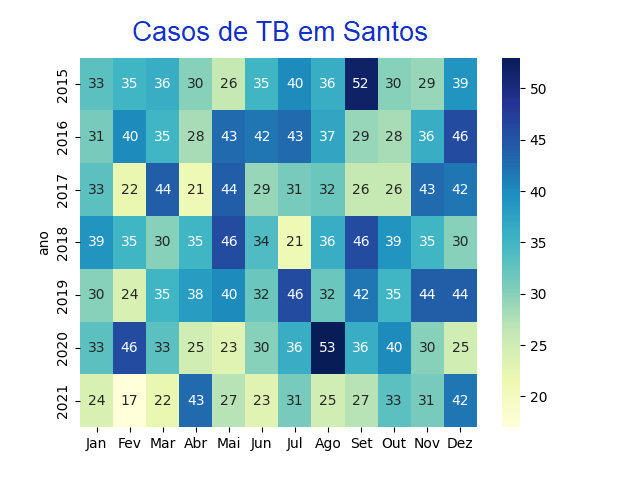
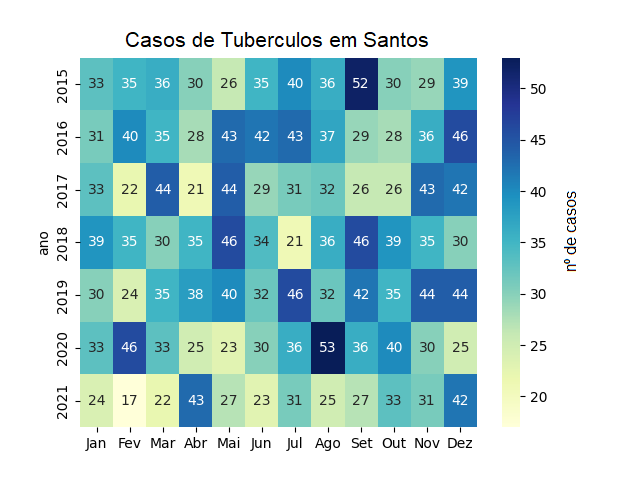
primeira entrega

Changed region(s): [[0.1875, 0.0312, 0.6875, 0.125], [0.875, 0.4062, 0.9062, 0.5625]]

diff --git a/casos_idade.py b/casos_idade.py
@@ -26,8 +26,8 @@ dfgrafico = faixa_etaria_df[:]
 dfgrafico.set_index('ano', inplace=True)
 
 # criando o gráfico 
-plt.title('Casos de TB por Faixa Etária', fontsize=14)
-plt.ylabel('')
+plt.title('Casos de Tuberculose por Faixa Etária', fontsize=14)
+plt.ylabel('nº casos')
 plt.xlabel('Faixas Etárias')
 sns.heatmap(data=dfgrafico, cmap='YlGnBu')
 plt.show()
